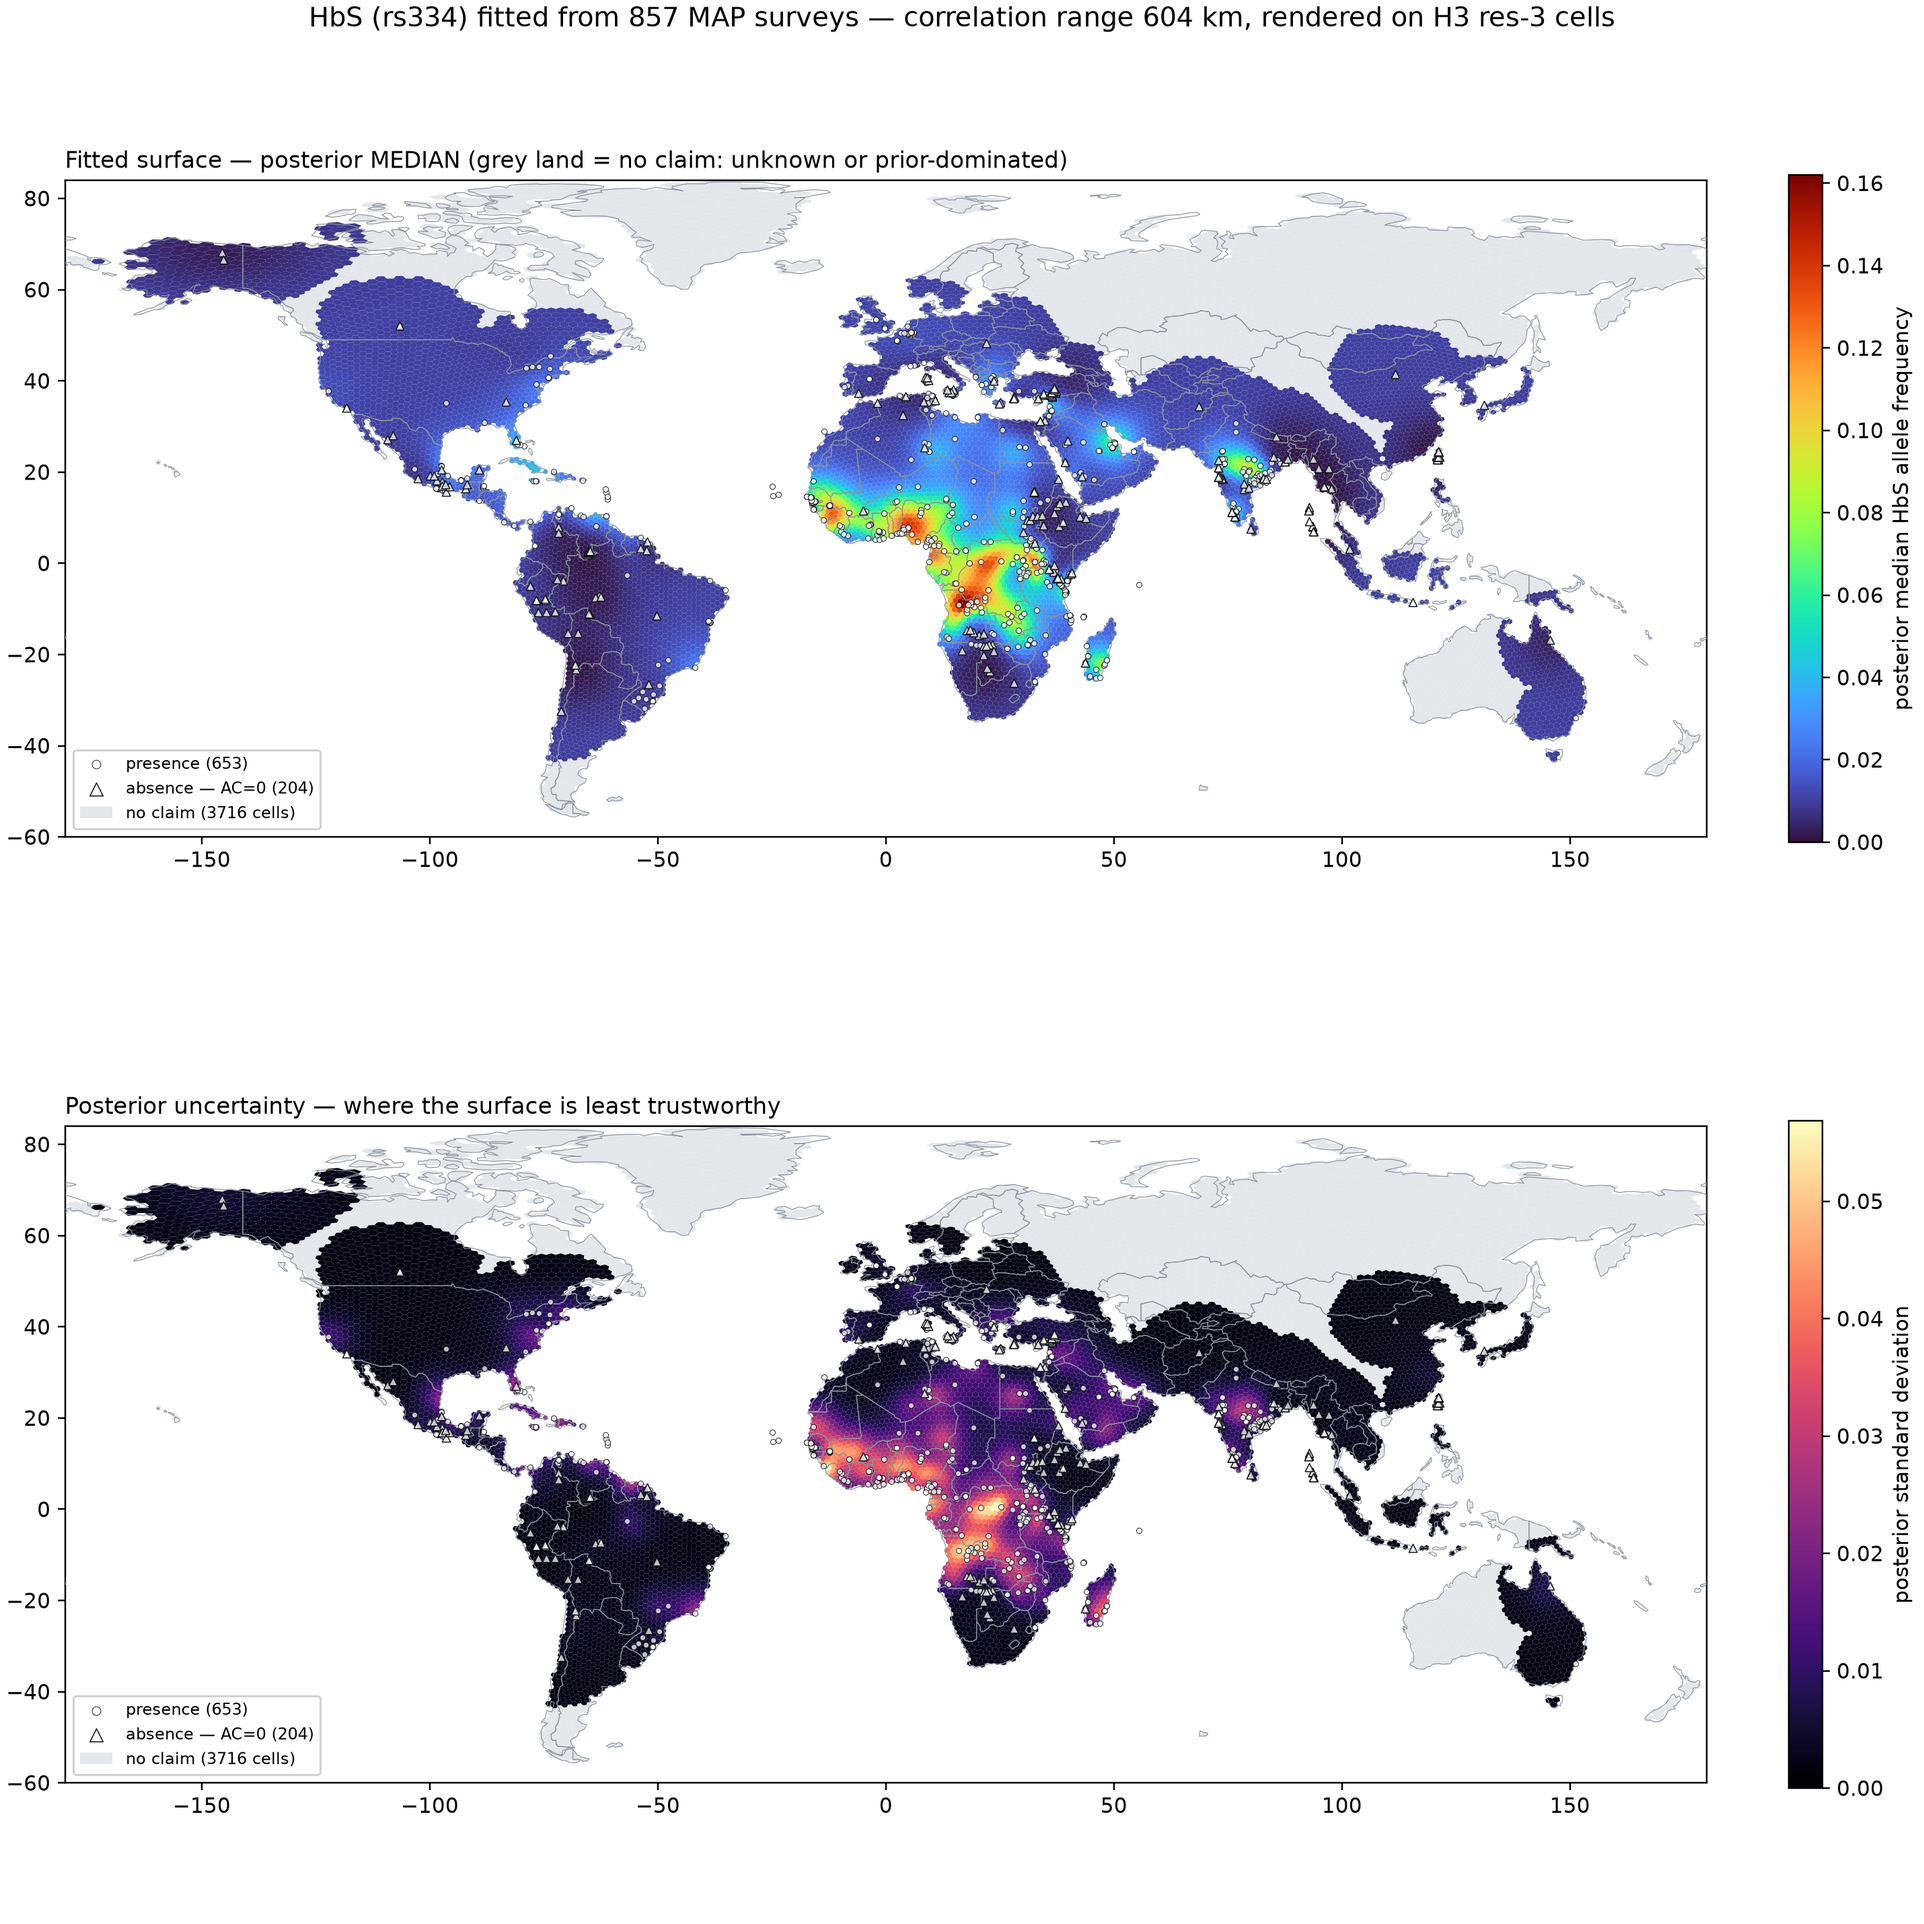
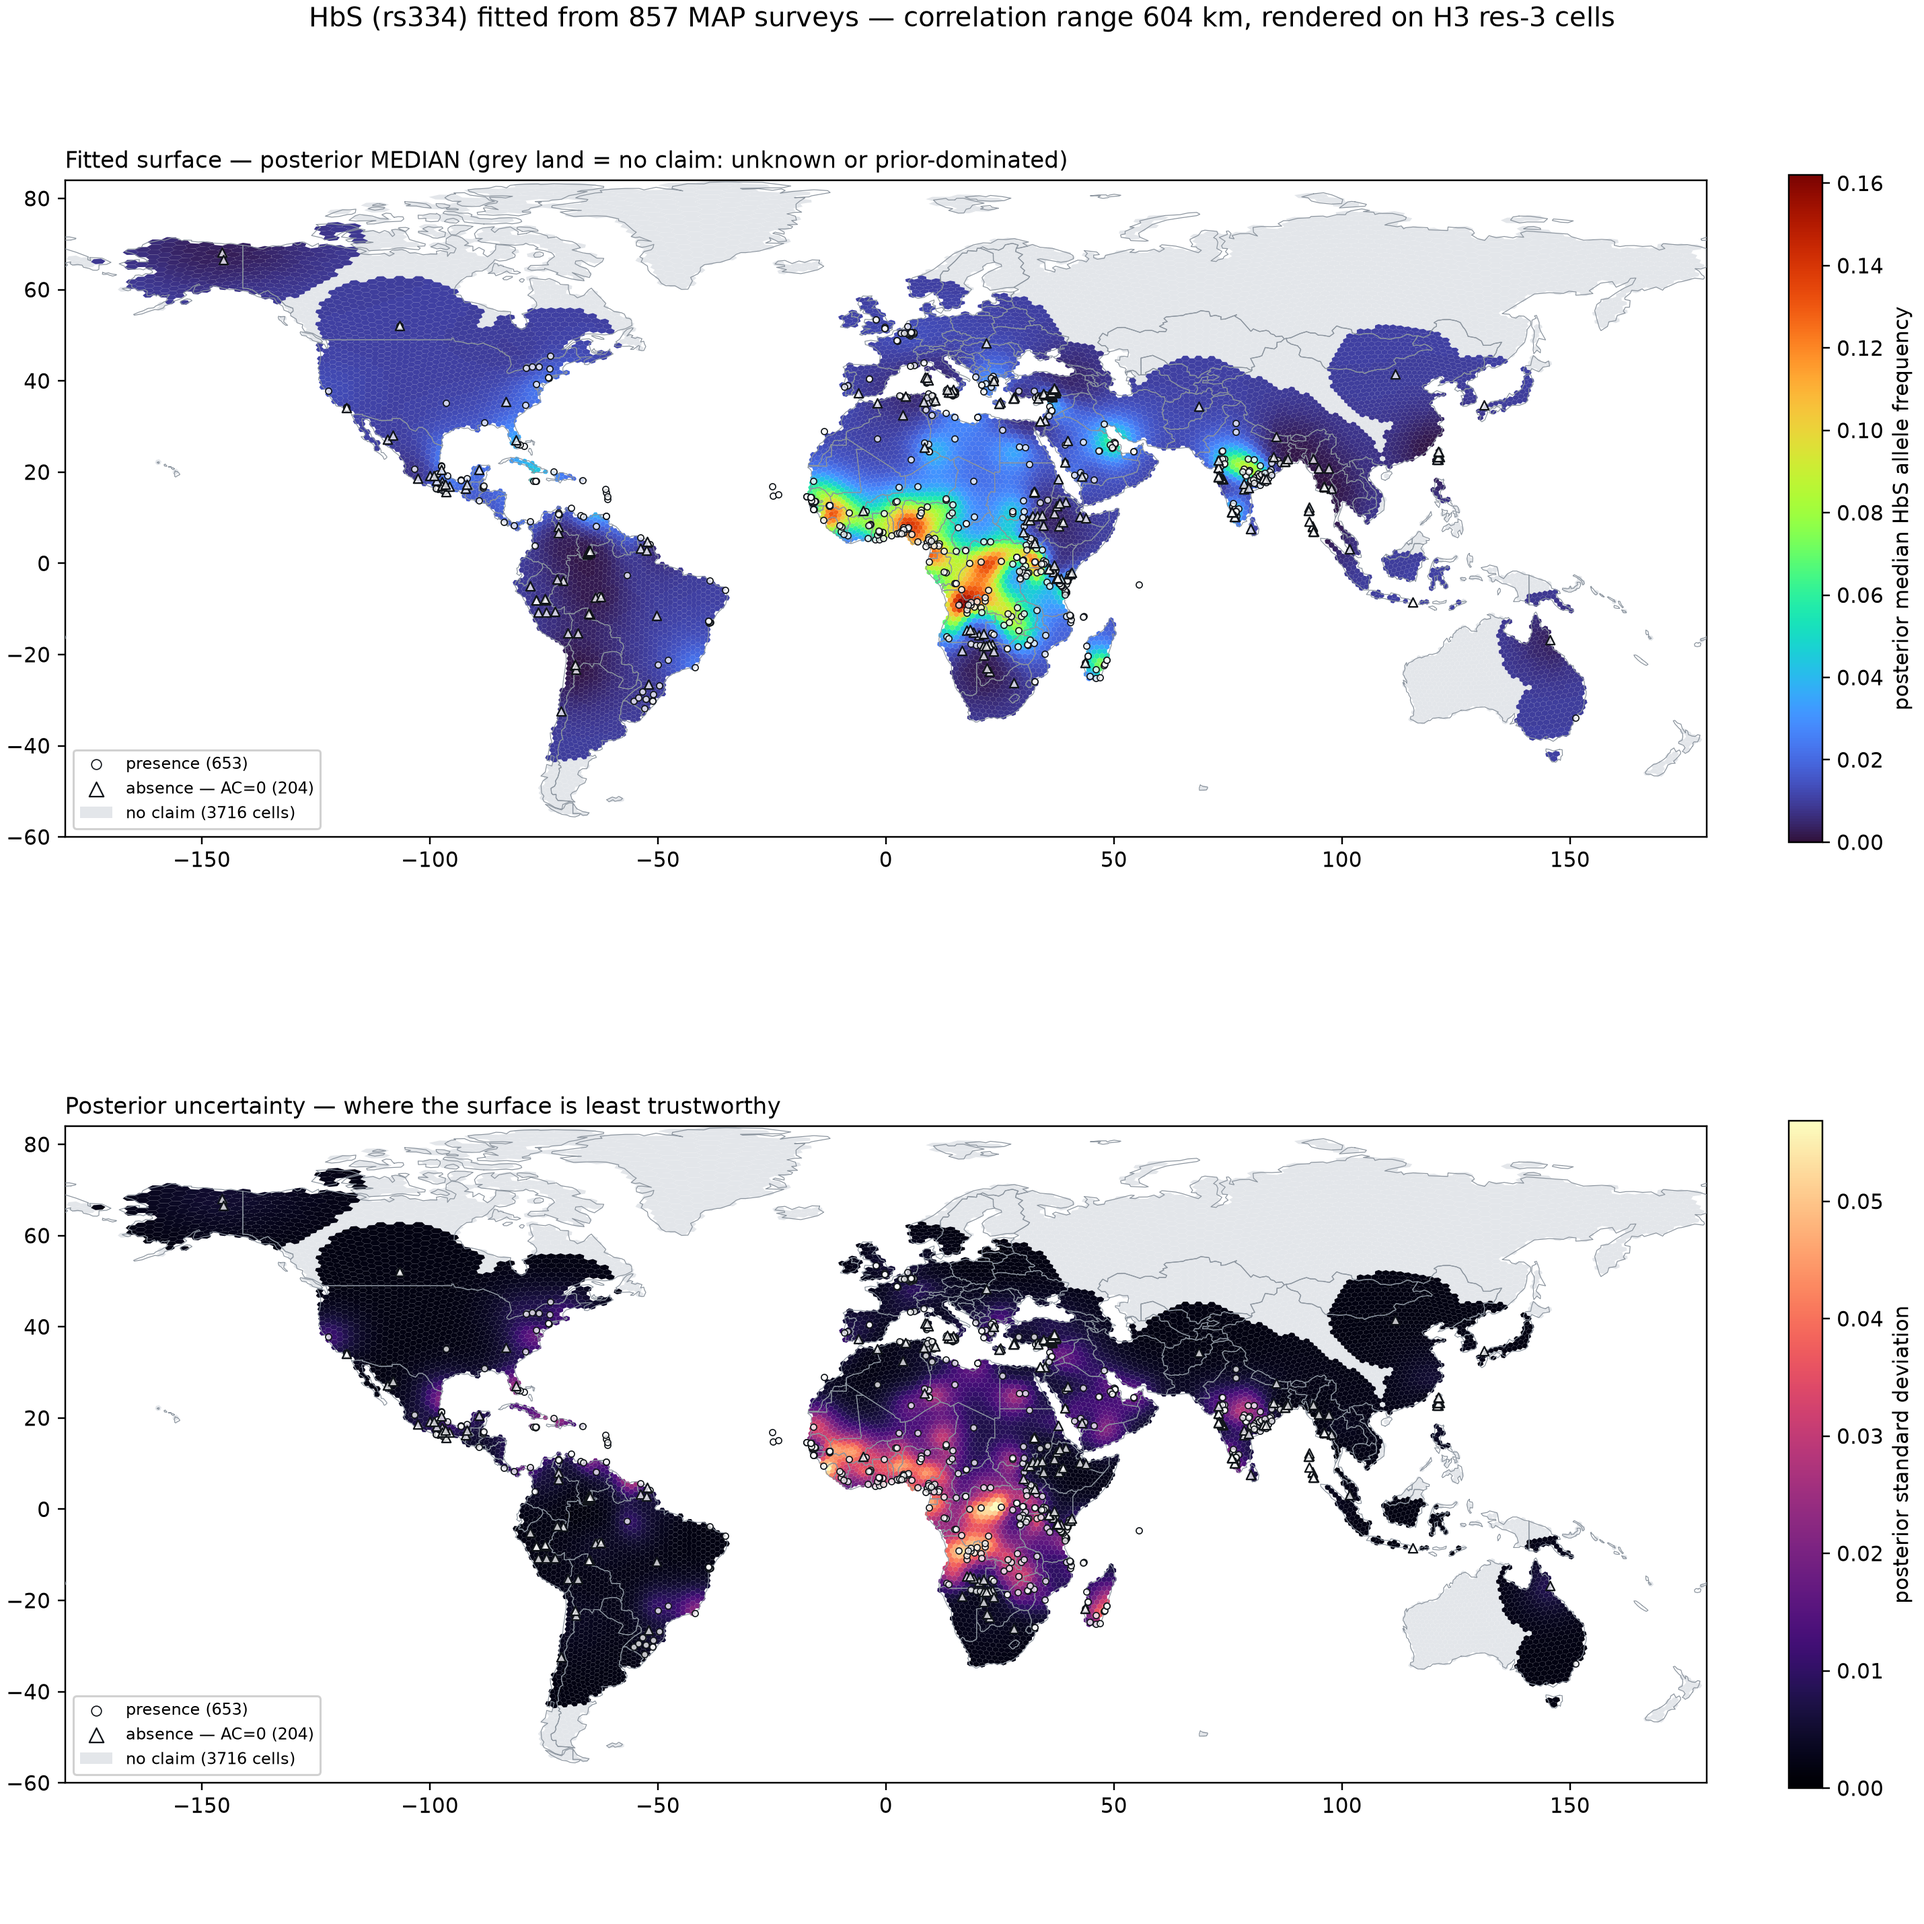
fix(P2): heavier stroke on observation markers so island surveys survive
Over open water the translucent white fill contributes nothing, so the stroke is the entire
marker. That is exactly the case for the island surveys of maritime Southeast Asia and the
western Indian Ocean: at H3 res 3 their landmasses are smaller than a cell, so no surface
renders beneath them and a hairline stroke lost the points with no other visual support.

diff --git a/scripts/plot_surface.py b/scripts/plot_surface.py
@@ -75,22 +75,27 @@ def _observation_markers(ax, obs) -> None:
     visual signal that the model is smoothing over contrary evidence, and it disappears entirely
     if every observation is drawn as the same dot.
 
-    Translucent white fill with an opaque dark edge, because these markers have to stay legible
-    over four different backgrounds: turbo's dark navy low end, its bright yellow middle, its dark
-    red top, and the light grey no-claim land. White alone vanishes on the yellow and the grey;
-    dark alone vanishes on the navy and the red. The fill is passed as RGBA rather than through
-    `alpha=` so that the edge stays fully opaque instead of fading with it.
+    Translucent white fill with an opaque dark stroke, because these markers have to stay legible
+    over five different backgrounds: turbo's dark navy low end, its bright yellow middle, its dark
+    red top, the light grey no-claim land, and white water. White alone vanishes on the yellow,
+    the grey and the water; dark alone vanishes on the navy and the red. The fill is passed as
+    RGBA rather than through `alpha=` so the stroke stays fully opaque instead of fading with it.
+
+    The stroke is deliberately heavy relative to the marker. Over open water the white fill
+    contributes nothing at all, so the stroke is the entire marker — and that is the case for the
+    island surveys of maritime Southeast Asia, whose land cells are too small to render beneath
+    them. A hairline stroke loses precisely the points that have no other visual support.
     """
     absent = (obs["ac"] == 0).to_numpy()
     fill = (1.0, 1.0, 1.0, 0.75)
     ax.scatter(
-        obs["lon"][~absent], obs["lat"][~absent], s=7, marker="o",
-        facecolor=[fill], edgecolor="#11151a", linewidth=0.3, zorder=4,
+        obs["lon"][~absent], obs["lat"][~absent], s=9, marker="o",
+        facecolor=[fill], edgecolor="#11151a", linewidth=0.55, zorder=4,
         label=f"presence ({int((~absent).sum())})",
     )
     ax.scatter(
-        obs["lon"][absent], obs["lat"][absent], s=16, marker="^",
-        facecolor=[fill], edgecolor="#11151a", linewidth=0.5, zorder=5,
+        obs["lon"][absent], obs["lat"][absent], s=19, marker="^",
+        facecolor=[fill], edgecolor="#11151a", linewidth=0.75, zorder=5,
         label=f"absence — AC=0 ({int(absent.sum())})",
     )
 
